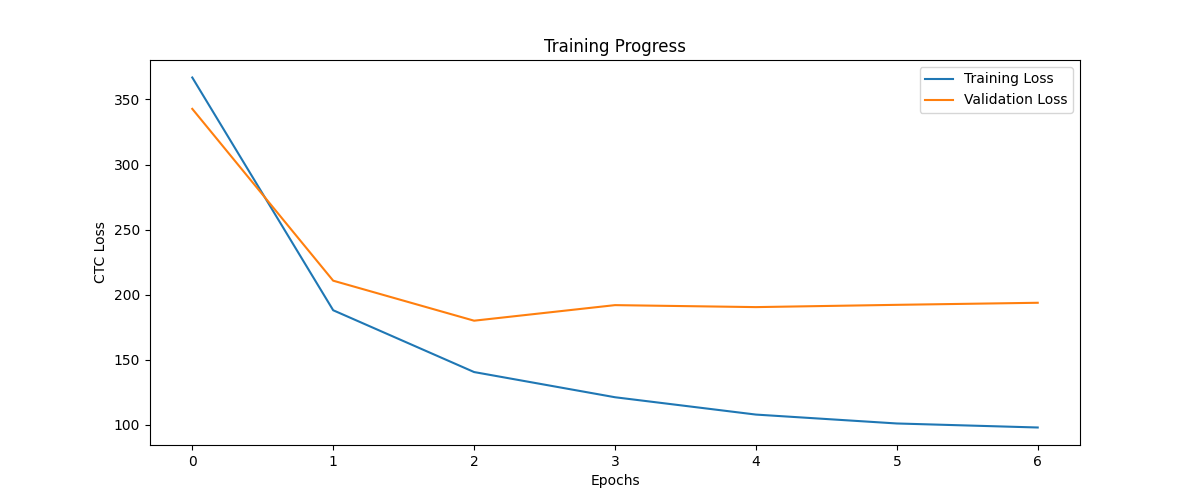
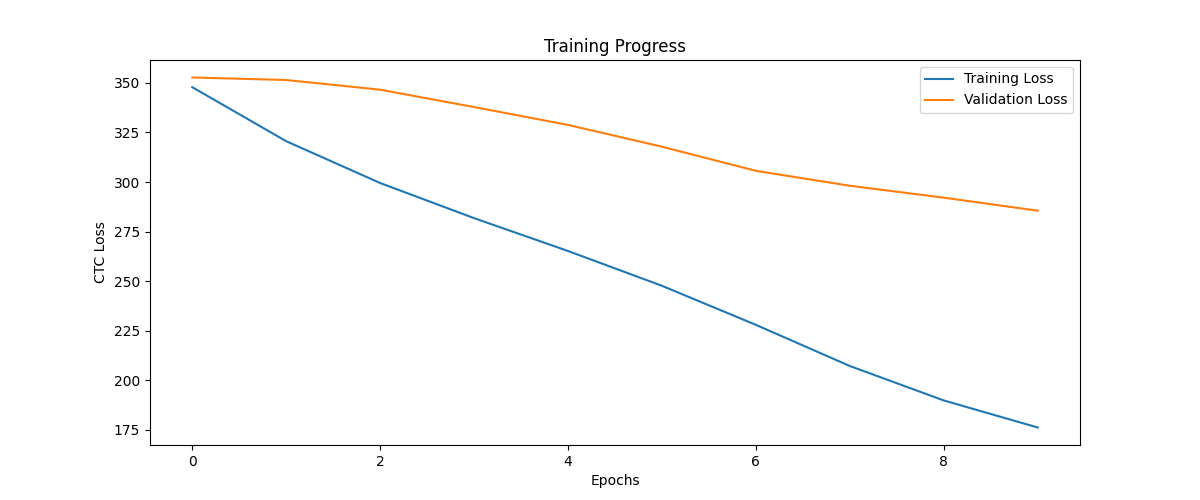
idk

diff --git a/training/train_streaming.py b/training/train_streaming.py
@@ -14,7 +14,7 @@ tf.keras.mixed_precision.set_global_policy('float32')
 SAMPLE_RATE = 16000
 EPOCHS = 10
 BATCH_SIZE = 64
-MAX_TRAIN_SAMPLES = 25_000
+MAX_TRAIN_SAMPLES = 1_000
 
 # wer and cer metrics
 class STTMetrics(tf.keras.callbacks.Callback):
@@ -22,6 +22,7 @@ class STTMetrics(tf.keras.callbacks.Callback):
         super().__init__()
         self.val_batch = val_batch
         self.tokenizer = tokenizer
+        self.blank_index = 2 
         print("STTMetrics initialized with AGGRESSIVE token forcing")
 
     def on_epoch_end(self, epoch, logs=None):
@@ -42,46 +43,21 @@ class STTMetrics(tf.keras.callbacks.Callback):
             top_chars = tf.math.top_k(log_probs[0, 0, :], k=5)
             print(f"| Top 5 predictions at first timestep: {top_chars}")
             
-            # DIRECT OVERRIDE: Set blank token to extremely negative value
-            blank_index = 2
-            
-            # Check if already numpy or if it's a TensorFlow tensor
-            if isinstance(pred_logits, np.ndarray):
-                output_logits = pred_logits
-            else:
-                output_logits = pred_logits.numpy()  # Convert to numpy
-            
-            # Set all blank tokens to extreme negative value
-            output_logits[:, :, blank_index] = -1000.0  # Effectively zero probability
-            
-            # Force some predictions by finding top non-blank character at each position
-            for i in range(output_logits.shape[0]):  # For each example
-                # Find the best non-blank characters
-                char_logits = output_logits[i, :, :blank_index]
-                best_chars = np.argmax(char_logits, axis=1)
-                
-                # Force a prediction every ~10 timesteps 
-                for t in range(0, output_logits.shape[1], 10):
-                    if t < output_logits.shape[1]:
-                        char_idx = best_chars[t]
-                        output_logits[i, t, char_idx] = 20.0  # Strongly force this character
-            
-            # Convert back to tensor
-            forced_logits = tf.convert_to_tensor(output_logits, dtype=tf.float32)
-            
-            # Greedy decode with forced characters
-            decoded, _ = tf.keras.backend.ctc_decode(
-                forced_logits,
-                input_length=[pred_logits.shape[1]] * pred_logits.shape[0],
-                greedy=True  # Simpler decoding for forced predictions
+            # PROPER CTC DECODING - no extreme penalties
+            decoded, _ = tf.nn.ctc_beam_search_decoder(
+                inputs=tf.transpose(pred_logits, [1, 0, 2]),
+                sequence_length=[pred_logits.shape[1]] * pred_logits.shape[0],
+                beam_width=100,
+                top_paths=1
             )
+            
             pred_ids = decoded[0]
             
             # Convert to text
             texts_pred = []
-            for ids in pred_ids.numpy():
-                # Filter out padding and invalid tokens
-                valid_ids = [idx for idx in ids if 0 <= idx < len(self.tokenizer.vocab)]
+            for ids in tf.sparse.to_dense(pred_ids).numpy():
+                # Filter out padding and blank tokens
+                valid_ids = [idx for idx in ids if idx > 0 and idx != self.blank_index]
                 if not valid_ids:  # If empty prediction
                     texts_pred.append("[empty]")
                 else:
@@ -90,7 +66,7 @@ class STTMetrics(tf.keras.callbacks.Callback):
             texts_true = []
             for label in true_labels:
                 # Filter out padding
-                valid_ids = [idx for idx in label if idx > 0 and idx < len(self.tokenizer.vocab)]
+                valid_ids = [idx for idx in label if idx > 0]
                 texts_true.append(self.tokenizer.decode(valid_ids))
             
             # Calculate metrics
@@ -134,12 +110,12 @@ class ClassBalanceCallback(tf.keras.callbacks.Callback):
             
             # Apply balance adjustments at each epoch
             # The strength increases with epochs to help guide learning
-            vowel_penalty = -3.0 - (epoch * 0.5)  # Gets stronger each epoch
-            blank_penalty = -5.0 - (epoch * 0.5)
+            vowel_penalty = -0.2  
+            blank_penalty = -0.2
             
             # Apply penalties
             biases[self.blank_index] = blank_penalty
-            biases[self.space_index] = -3.0  # Fixed penalty for space
+            biases[self.space_index] = 0.5
             
             for idx in self.vowel_indices:
                 biases[idx] = vowel_penalty

diff --git a/models/stt_model/architecture.py b/models/stt_model/architecture.py
@@ -61,7 +61,7 @@ def build_stt_model(
     x = layers.Bidirectional(layers.LSTM(128, return_sequences=True, 
                                       dropout=0.2, recurrent_dropout=0.2, kernel_regularizer = l2_reg))(x)
     x = layers.Bidirectional(layers.LSTM(128, return_sequences=True,
-                                      dropout=0.3, recurrent_dropout=0.5, kernel_regularizer = l2_reg))(x)
+                                      dropout=0.2, recurrent_dropout=0.2, kernel_regularizer = l2_reg))(x)
     
     x = layers.Conv1D(128, 5, padding="same", activation="relu")(x)  # Character-level modeling
     x = layers.BatchNormalization()(x)  
@@ -147,12 +147,12 @@ class CTCLossLayer(layers.Layer):
         
         # Simpler approach: Use one-hot masks for penalties
         # 1. Blank token penalty
-        blank_penalty = 10.0
+        blank_penalty = 1.0
         blank_mask = tf.one_hot(self.blank_index, depth=tf.shape(y_pred)[-1])
         blank_mask = tf.reshape(blank_mask, [1, 1, -1])  # [1, 1, vocab_size+1]
         
         # 2. Space token penalty
-        space_penalty = 8.0
+        space_penalty = 1.0
         space_mask = tf.one_hot(3, depth=tf.shape(y_pred)[-1])
         space_mask = tf.reshape(space_mask, [1, 1, -1])
         
